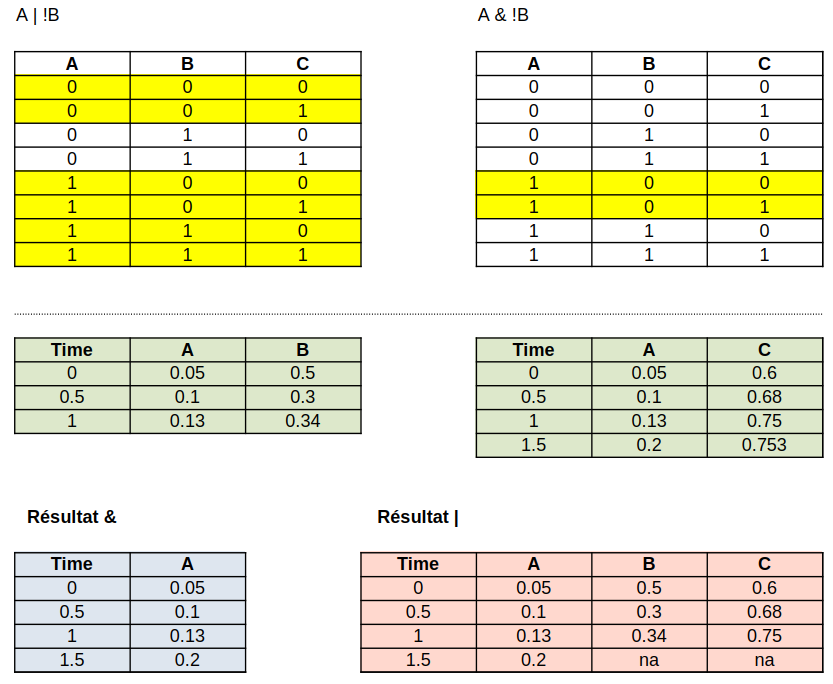
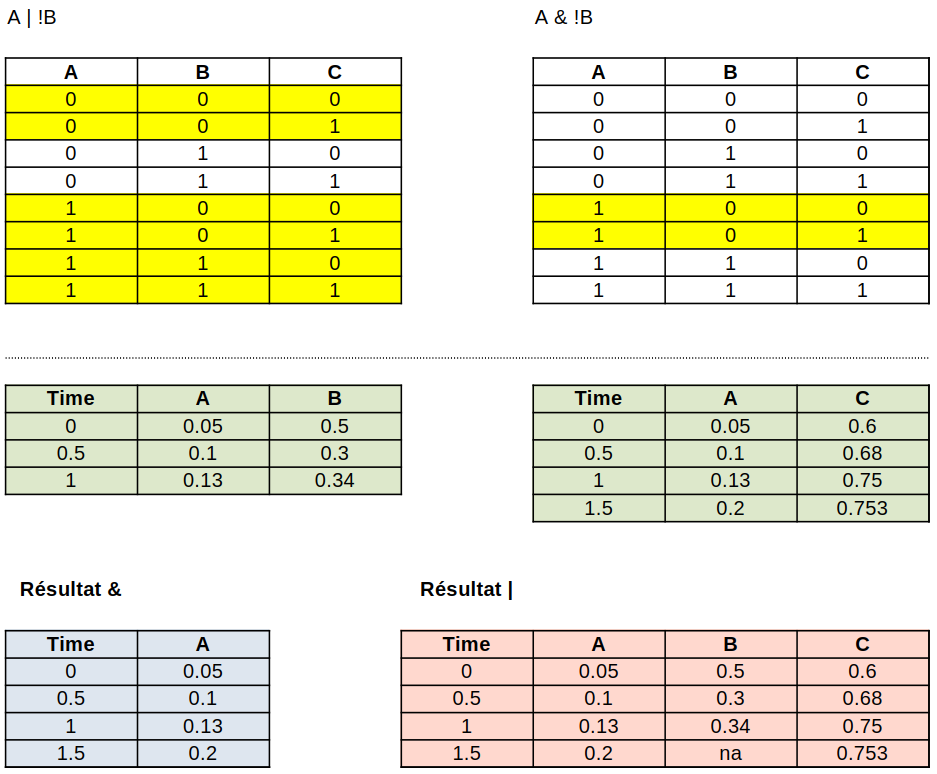
terminé la fusion des dataframes, partie concept

diff --git a/src/pages/technic.vue b/src/pages/technic.vue
@@ -70,9 +70,14 @@ const subRoot = ref(1)
             </button>
             <button class="sub-tab-item" :class="{active: subRoot === 2}" @click="subRoot=2">Utiliser des logigrammes
             </button>
-            <button class="sub-tab-item" :class="{active: subRoot === 3}" @click="subRoot=3">Fusionner des dataframes
+            <button class="sub-tab-item" :class="{active: subRoot === 3}" @click="subRoot=3">Fusionner des dataframes -
+              Concept
             </button>
-            <button class="sub-tab-item" :class="{active: subRoot === 4}" @click="subRoot=4">Utiliser une REGEX</button>
+            <button class="sub-tab-item" :class="{active: subRoot === 4}" @click="subRoot=4">Fusionner des dataframes -
+              Application
+            </button>
+            <button class="sub-tab-item" :class="{active: subRoot === 5}" @click="subRoot=5">Utiliser une REGEX</button>
+
           </div>
           <div class="sub-inner-details" v-if="subRoot === 1">
             <h3>Créer un module python</h3>
@@ -201,10 +206,14 @@ const subRoot = ref(1)
                 <p>
                   Concernant <span class="green-blue">le support des conditions imbriquées</span>, j'utilise la présence
                   de parenthèses ouvrantes et fermantes pour <span class="green-blue">créer des sous-listes de l'expression.</span>
-                  Sur la <b>trace 6</b> ci-contre on peut voir la flow-chart de la fonction qui permet de parser l'expression
-                  logique. En input de la fonction, on passe l'expression sous type de liste de string <span class="code-inline">list[str]</span>.
-                  En output de la fonction, on renvoie une liste de string aussi, mais nettoyée de caractères vides, d'espaces et
-                  des parenthèses. Également, les membres qui étaient entourés par des parenthèses sont regroupés en sous-listes.
+                  Sur la <b>trace 6</b> ci-contre on peut voir la flow-chart de la fonction qui permet de parser
+                  l'expression
+                  logique. En input de la fonction, on passe l'expression sous type de liste de string <span
+                    class="code-inline">list[str]</span>.
+                  En output de la fonction, on renvoie une liste de string aussi, mais nettoyée de caractères vides,
+                  d'espaces et
+                  des parenthèses. Également, les membres qui étaient entourés par des parenthèses sont regroupés en
+                  sous-listes.
                   <span class="exemple">
                     L'expression "A & ( B | ( C & D ) )" va être découpée : ['A', '&', ['B', '|', ['C', '&', 'D']]]
                   </span>
@@ -221,9 +230,13 @@ const subRoot = ref(1)
                 Si c'est un symbole vide (un espace par exemple), on l'ignore et on passe au suivant (instruction
                 <span class="code-inline">continue</span>),
               </p></li>
-              <li><p>
-                Si c'est une parenthèse ouvrante : on appelle en <InfoHover id="recursion">récursion</InfoHover> la fonction,
-              </p></li>
+              <li>
+                <p>
+                  Si c'est une parenthèse ouvrante : on appelle en
+                  <InfoHover id="recursion">récursion</InfoHover>
+                  la fonction,
+                </p>
+              </li>
               <li><p>
                 Si c'est une parenthèse fermante : on retourne la liste <span class="code-inline">parsed_exp</span>
                 contenant la sous-expression qui sera ajoutée à la variable <span class="code-inline">parsed_exp</span>
@@ -236,7 +249,8 @@ const subRoot = ref(1)
             </ul>
             <p class="green-blue">
               <b>
-                Grâce à ce formatage, je vais pouvoir traiter les membres un à un et récupérer les colonnes au fur et à mesure
+                Grâce à ce formatage, je vais pouvoir traiter les membres un à un et récupérer les colonnes au fur et à
+                mesure
                 pour appliquer l'expression morceau par morceau.
               </b>
             </p>
@@ -244,29 +258,95 @@ const subRoot = ref(1)
           </div>
 
           <div class="sub-inner-details" v-if="subRoot===3">
-            <h3>Fusion de dataframes</h3>
+            <h3>Fusion de dataframes : présentation du concept</h3>
+            <p>
+              Une fusion de tableau sur une logique de &-logique n'est pas la même qu'une fusion sur un |-logique.
+              En effet, la règle logique pour qu'un &-logique soit VRAI est que les DEUX membres doivent être VRAIS.
+              C'est ce qui est illustré par les deux premiers tableaux de la <b>trace 29</b> ci-dessous. Dans un premier
+              temps on voit que les valeurs <span class="code-inline">float</span> des lignes ont été remplacées
+              par des valeurs <span class="code-inline">boolean</span> pour comprendre la mécanique.
+            </p>
+            <p>
+              Dans la seconde partie de cette même trace, on voit deux tableaux verts, que l'on va fusionner en suivant
+              une
+              logique &-logique et une logique |-logique pour voir la différence.
+            </p>
+            <p>
+              Dans la <a @click="subRoot=4">section suivante</a>, je vous parlerais plus en détail des fonctions
+              <span class="code-inline">merge_or</span>
+              et <span class="code-inline">merge_and</span>, applications directe des concepts présentés ici.
+            </p>
             <div class="side-by-side">
               <div class="trace-content">
                 <Trace traceId="tableaux-log-exp"/>
               </div>
-              <div class="text-content">
-                <h4>Fusion des dataframes</h4>
-                <p>
-                  Une fusion de tableau sur une logique de &-logique n'est pas la même qu'une fusion sur un |-logique.
-                  En effet, la règle logique pour qu'un &-logique soit VRAI est que les DEUX membres doivent être VRAIS.
-                  C'est ce qui est illustré par les deux premiers tableaux de la <b>trace 29</b> ci-contre. Dans un premier
-                  temps on voit que les valeurs <span class="code-inline">float</span> des lignes ont été remplacées
-                  par des valeurs <span class="code-inline">boolean</span> pour comprendre la mécanique.
-                </p>
-                <p>
-                  On a donc deux expressions : <b>A | !B</b> ("A ou pas B") et <b>A & !B</b> ("A et pas B").
 
-                </p>
+              <div class="text-content">
+                <div>
+                  <h4>Fusions simples</h4>
+                  <p>
+                    On a donc deux expressions : <b>A | !B</b> ("A ou pas B") et <b>A & !B</b> ("A et pas B"). Le
+                    principe
+                    de l'exemple, c'est de voir physiquement la différence entre les données à récupérer en fonction de
+                    l'expression. Dans cet exemple, la logique des lignes a été simplifiée : les valeurs sont des
+                    booléennes.
+                    Cependant, cet exemple n'est pas que théorique puisque cette configuration correspond à
+                    <span class="light-blue">l'application d'un masque conditionnel</span> pour récupérer les bonnes
+                    lignes
+                    d'un dataframe. Je parle de cette fonctionnalité dans la section sur
+                    <a @click="subRoot=1; activeRoot='data-ttt'">le traitement de données</a>.
+                  </p>
+                  <p>
+                    Ainsi, pour récupérer les lignes qui remplissent les conditions, il n'y a qu'à appliquer la formule
+                    logique : <b>A | !B on garde là où la valeur de A est à 1 ou que celle de B à 0.</b> De même pour la
+                    formule de &-logique sauf que <b>l'on garde seulement si A est à 1 ET que B est à 0.</b> On voit
+                    très clairement que les lignes à garder (en jaune fluo) sont différentes. Il est donc
+                    <b>primordial</b>
+                    <span class="green-blue"> d'adapter le comportement du programme en fonction des symboles.</span>
+                  </p>
+                </div>
               </div>
+
+            </div>
+            <div>
+              <h4>Fusion de tableau</h4>
+              <p>
+                Pour ce second exemple, on part de deux tableaux de départs, ceux en vert sur la trace. On va les
+                fusionner en suivant des logiques différentes, et voir les différences. Au préalable, j'établis l'impact
+                d'une logique sur les tableaux :
+              </p>
+              <ul>
+                <li>
+                  <p>
+                    <b>Dans une logique de OU </b>: on garde ce qui est <b>commun au deux membres sans le dédoubler</b>
+                    et
+                    ce qu'il y a en plus;
+                  </p>
+                </li>
+                <li>
+                  <p>
+                    <b>Dans une logique de ET </b>: on garde <b>seulement</b> ce qui est commun aux <b>deux membres</b>.
+                  </p>
+                </li>
+              </ul>
+              <p>
+                Ainsi, pour la logique du &-logique, on ne va garder que <b>la colonne A</b>. Pour la logique du |-logique,
+                on garde les trois colonnes. Mais il faut noter une chose importante : dans le cas du |-logique on se retrouve
+                avec une ligne contenant une valeur vide car dans un des tableaux, il n'y avait de valeur pour B à cet
+                endroit. <span class="green-blue">C'est pour cette raison que l'on va retirer les lignes contenant
+                une valeur <span class="code-inline">na</span>.</span> J'ai prévu un second cas, qui permet de
+                <span class="green-blue">garder les temps d'un des deux dataframes pour pouvoir récupérer les valeurs
+                manquantes</span>.
+              </p>
             </div>
           </div>
 
           <div class="sub-inner-details" v-if="subRoot===4">
+            <h3>Concevoir les fonctions de fusion</h3>
+
+          </div>
+
+          <div class="sub-inner-details" v-if="subRoot===5">
             <h3>Utiliser une REGEX</h3>
           </div>
         </div>
@@ -498,6 +578,10 @@ const subRoot = ref(1)
             </div>
 
           </div>
+        </div>
+
+        <div v-if="activeRoot==='data-ttt'">
+          application de masque
         </div>
 
 

diff --git a/src/assets/base.css b/src/assets/base.css
@@ -105,7 +105,7 @@ p {
 .sources-box a {
   color: var(--curie-orange);
   font-weight: 600;
-  text-decoration: none;
+  text-decoration: none !important;
 }
 
 .sources-box a:hover {
@@ -117,7 +117,7 @@ p {
   align-items: center;
   gap: 8px;
   color: var(--curie-orange);
-  text-decoration: none;
+  text-decoration: none !important;
   font-weight: 600;
   margin-bottom: 20px;
   padding: 5px 12px;
@@ -140,7 +140,7 @@ p {
   border-radius: 30px;
   font-size: 0.95rem;
   font-weight: 700;
-  text-decoration: none;
+  text-decoration: none !important;
   cursor: pointer;
   transition: all 0.3s cubic-bezier(0.4, 0, 0.2, 1);
   border: 2px solid transparent;
@@ -403,6 +403,11 @@ a,
   padding: 3px;
 }
 
+a {
+  text-decoration: underline dotted var(--curie-orange);
+  text-underline-offset: 4px;
+}
+
 @media (hover: hover) {
   a:hover {
     background-color: var(--curie-box-border);
@@ -446,7 +451,7 @@ a,
   color: white;
   padding: 12px 25px;
   border-radius: 30px;
-  text-decoration: none;
+  text-decoration: none !important;
   font-weight: 700;
   transition: all 0.3s ease;
   box-shadow: 0 4px 15px rgba(232, 128, 61, 0.2);
